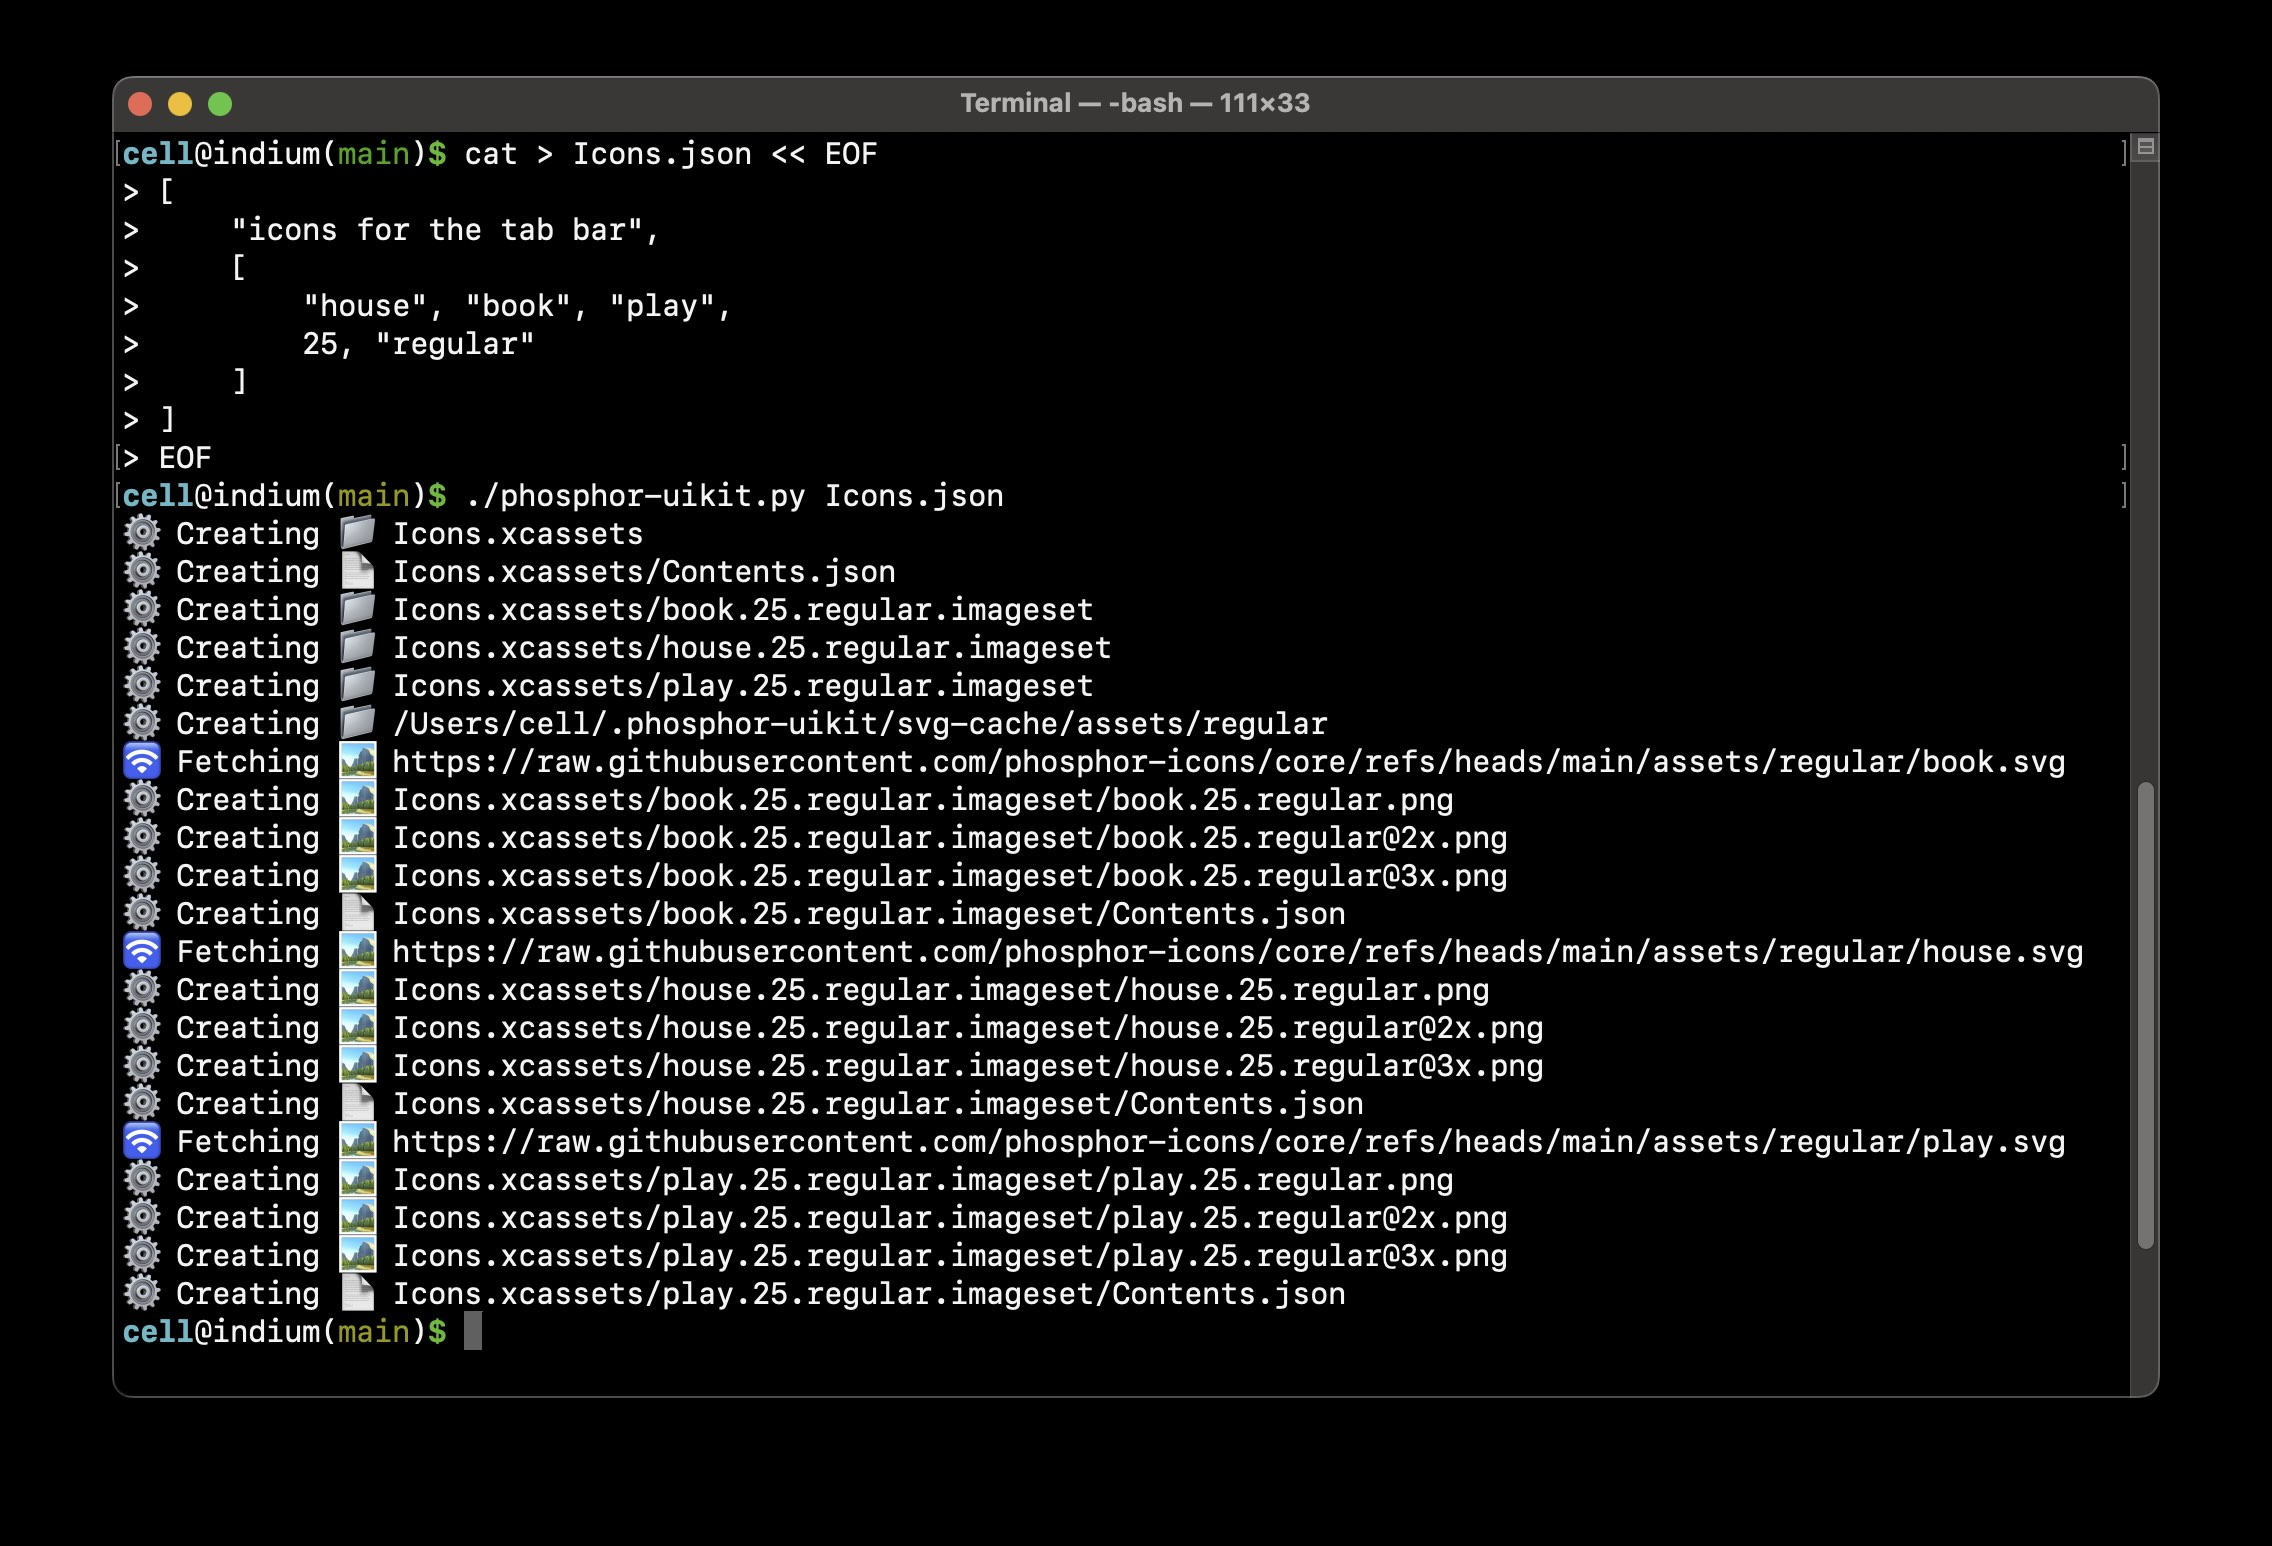
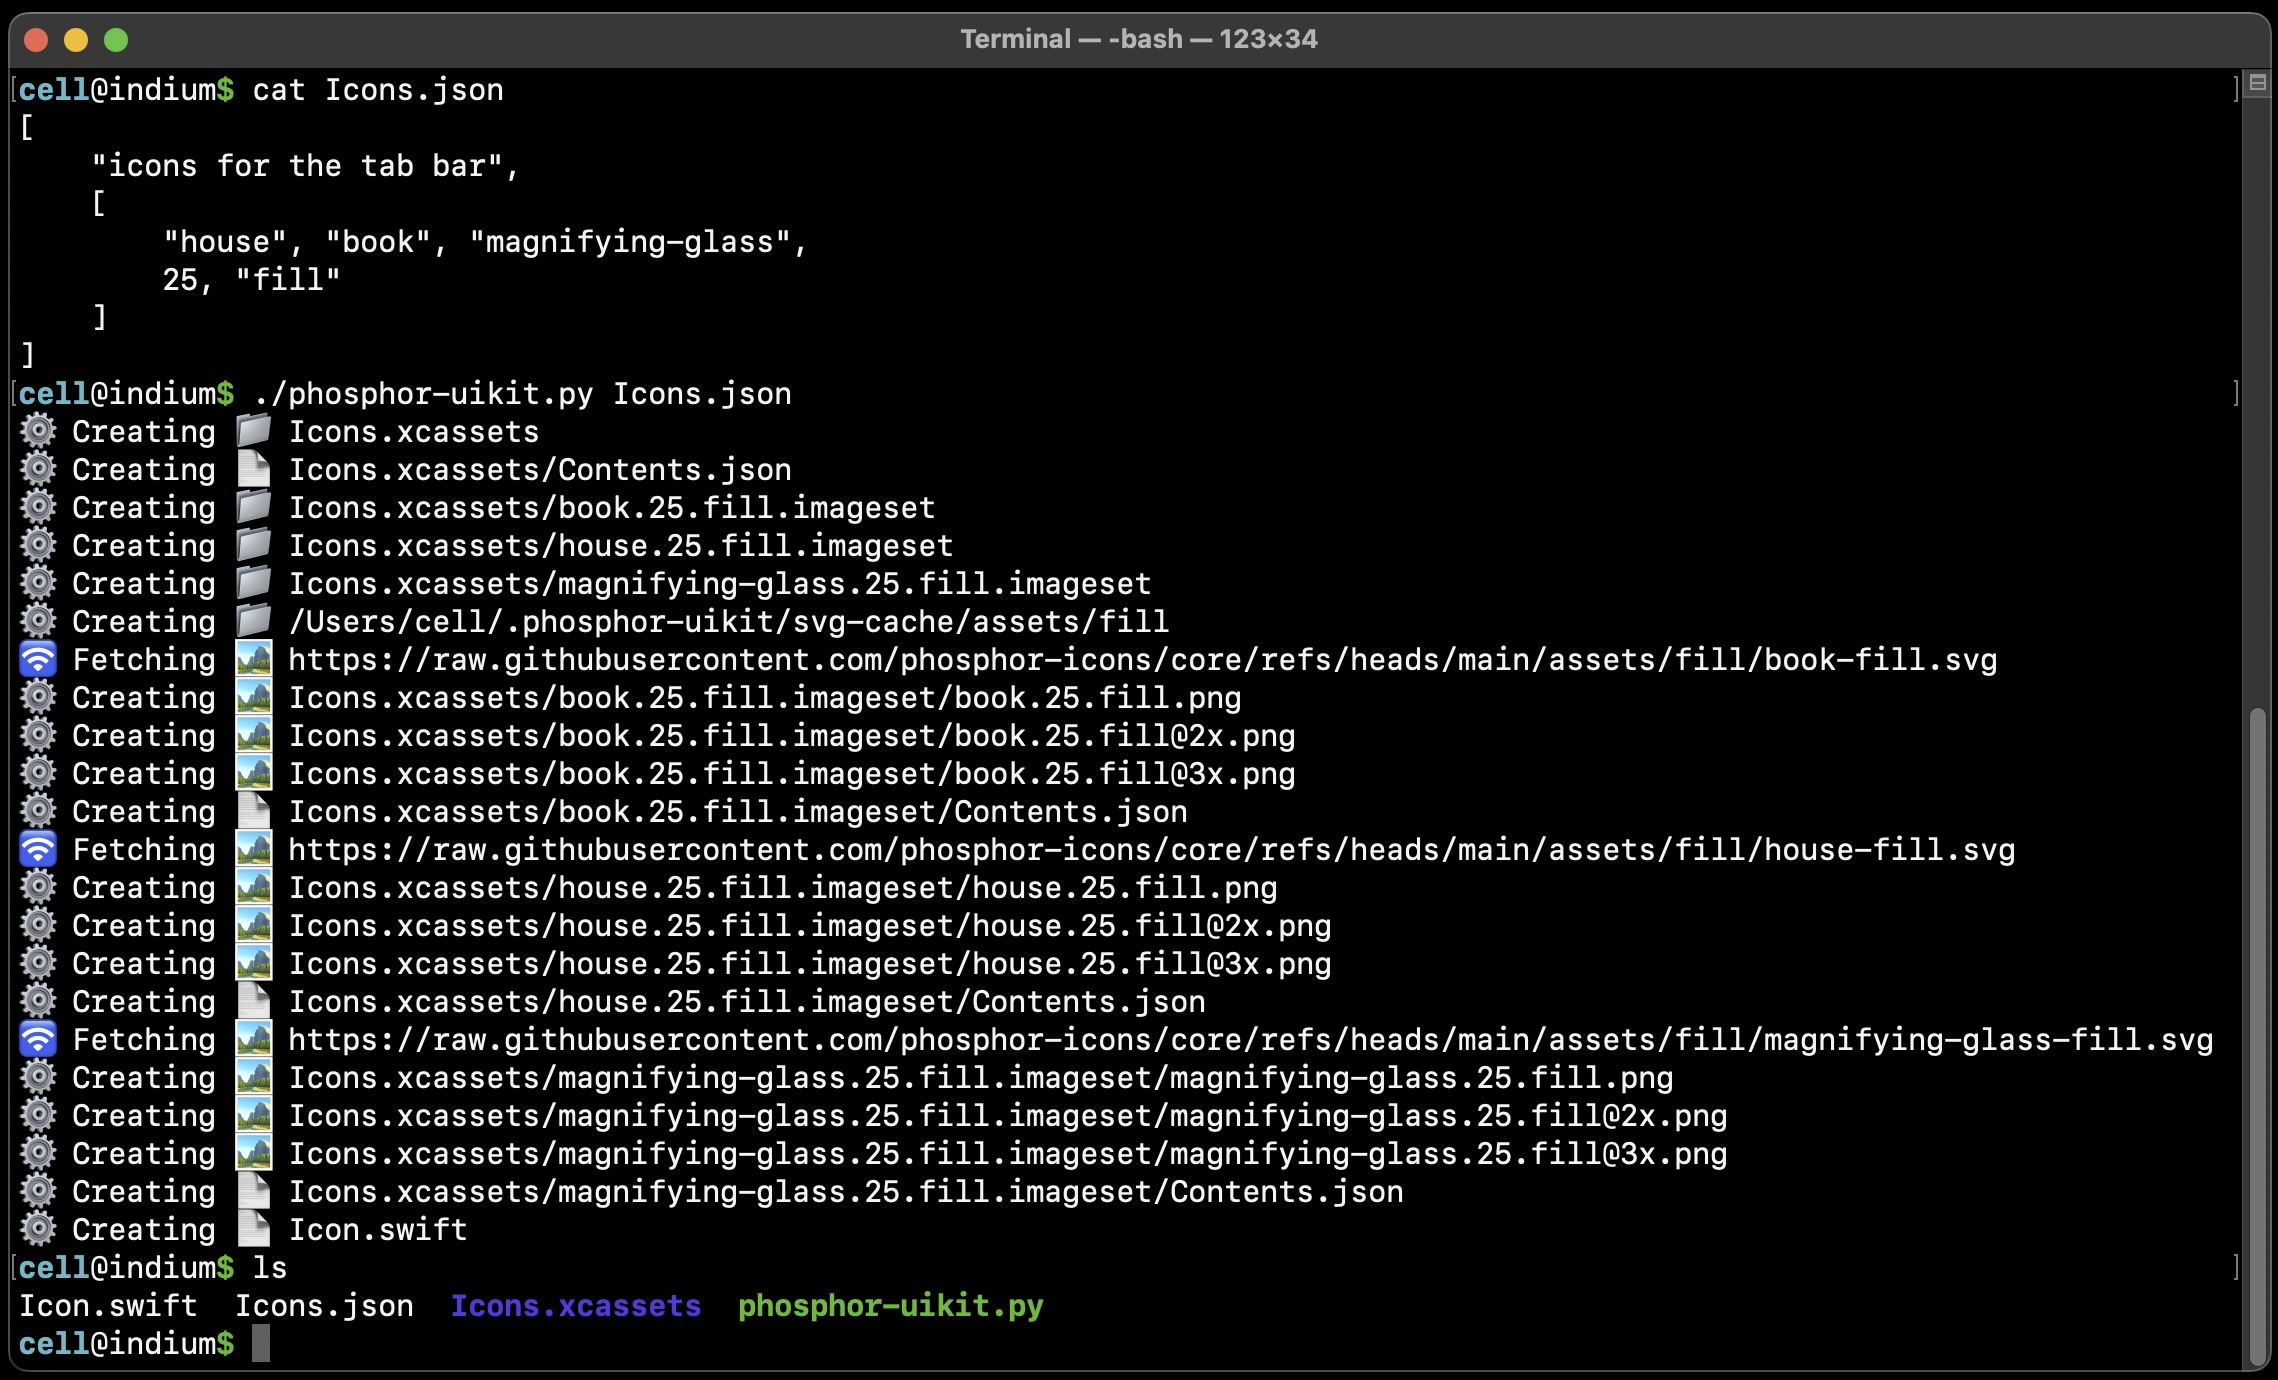
Swift codegen

Changed region(s): [[0.0, 0.0, 1.0, 0.9971]]

diff --git a/phosphor-uikit.py b/phosphor-uikit.py
@@ -26,7 +26,7 @@ default_sizes = set([44])
 default_options = {
     "renderer": "rsvg"
 }
-valid_options = list(default_options.keys()) + ["phosphor_core_path"]
+valid_options = list(default_options.keys()) + ["phosphor_core_path", "enum_name", "param_name"]
 valid_renderers = ["rsvg", "inkscape"]
 
 did_warn_bad_phosphor_core_path = False
@@ -262,6 +262,94 @@ def rasterize_rsvg(name, style, resolution, svg_fpath, png_fpath, options):
             sys.exit(1)
 
 
+# "foo" -> "Foo"
+def capitalized(s):
+    return s[:1].upper() + s[1:]
+
+
+# "cars" -> "car"
+# "categories" -> "category"
+def singular(s):
+    if s.endswith("ies"):
+        s = s[:-(len("ies"))] + "y"
+    elif s.endswith("s"):
+        s = s[:-1]
+    return s
+
+
+# "magnifying-glass" -> "magnifyingGlass"
+def dash_case_to_camel_cased(s):
+    words = s.split("-")
+    cc = words[0]
+    for word in words[1:]:
+        cc += capitalized(word)
+    return cc
+
+
+# Return the Swift enum type name generated for a given asset catalog name.
+def enum_type_name(asset_catalog_dpath, options):
+    if "enum_type_name" in options:
+        return options["enum_type_name"]
+    else:
+        # If no enum type name was given, base it off of the .xcassets dirname.
+        # Drop any leading dir names.
+        tname = os.path.basename(asset_catalog_dpath)
+        # Drop the .xcassets suffix.
+        tname = tname[:-(len(".xcassets"))]
+        tname = capitalized(tname)
+        tname = singular(tname)
+        return tname
+
+
+# Return a lower-case version of the enum type name for use as a param label.
+def enum_param_name(asset_catalog_dpath, options):
+    if "enum_param_name" in options:
+        return options["enum_param_name"]
+    else:
+        pname = enum_type_name(asset_catalog_dpath, options)
+        pname = pname[:1].lower() + pname[1:]
+        return pname
+
+
+# Generate a Swift enum for the asset names.
+def make_swift_file(asset_catalog_dpath, options, icons_set):
+    tname = enum_type_name(asset_catalog_dpath, options)
+    pname = enum_param_name(asset_catalog_dpath, options)
+    code = """// Generated by phosphor-uikit.py.  Edits will be clobbered by the next run.
+
+/// Phosphor icons.
+enum %s: String, Equatable, Hashable, CaseIterable {
+""" % tname
+    for (name, size, style) in icons_set:
+        case_name = "%s%s" % (dash_case_to_camel_cased(name), size)
+        if style != "regular":
+            case_name = case_name + capitalized(style)
+        raw_value = "%s.%s.%s" % (name, size, style)
+        code += '    case %s = "%s"\n' % (case_name, raw_value)
+    code += "}\n"
+    code += """
+extension %s {
+    var image: UIImage {
+        return UIImage(named: rawValue)!
+    }
+}
+""" % tname
+    code += """
+extension UIImage {
+    convenience init(%s: PNGIcon) {
+        self.init(named: %s.rawValue)!
+    }
+}
+""" % (pname, pname)
+    dname = os.path.dirname(asset_catalog_dpath)
+    fname = tname + ".swift"
+    fpath = os.path.join(dname, fname)
+    sys.stdout.write("⚙  Creating 📄 %s\n" % fpath)
+    if not flags["--dry-run"]:
+        with open(fpath, "w+") as fd:
+            fd.write(code)
+
+
 # Generate or update an asset catalog.
 def update_asset_catalog(catalog_dpath, icons_set, options):
     # Ensure the .xcassets directory exists.
@@ -323,6 +411,7 @@ def update_asset_catalog(catalog_dpath, icons_set, options):
             fpath = os.path.join(dpath, fname)
             rasterize(name, size, style, fpath, options)
         make_imageset_contents_json(dpath, [fname1x, fname2x, fname3x])
+    make_swift_file(catalog_dpath, options, icons_set)
 
 
 # Load and process a JSON config file.
@@ -330,6 +419,7 @@ def process_catalog_fpath(catalog_fpath):
     config = load_catalog_fpath(catalog_fpath)
     options = parse_options(config, catalog_fpath)
     icons_set = parse_icon_groups(config, catalog_fpath)
+    # Replace the .json suffix with .xcassets.
     catalog_dpath = catalog_fpath[:-(len(".json"))] + ".xcassets"
     update_asset_catalog(catalog_dpath, icons_set, options)
 

diff --git a/README.md b/README.md
@@ -9,6 +9,30 @@ If you haven't yet migrated to SwiftUI, you may prefer to stick with PNG's (rath
 
 ![](media/screenshot.jpg)
 
+The above will generate `Icon.swift`:
+
+```swift
+// Generated by phosphor-uikit.py.  Edits will be clobbered by the next run.
+
+/// Phosphor icons.
+enum Icon: String, Equatable, Hashable, CaseIterable {
+    case house25Fill = "house.25.fill"
+    case magnifyingGlass25Fill = "magnifying-glass.25.fill"
+    case book25Fill = "book.25.fill"
+}
+
+extension Icon {
+    var image: UIImage {
+        return UIImage(named: rawValue)!
+    }
+}
+
+extension UIImage {
+    convenience init(icon: PNGIcon) {
+        self.init(named: icon.rawValue)!
+    }
+}
+```
 
 ## Installation
 
